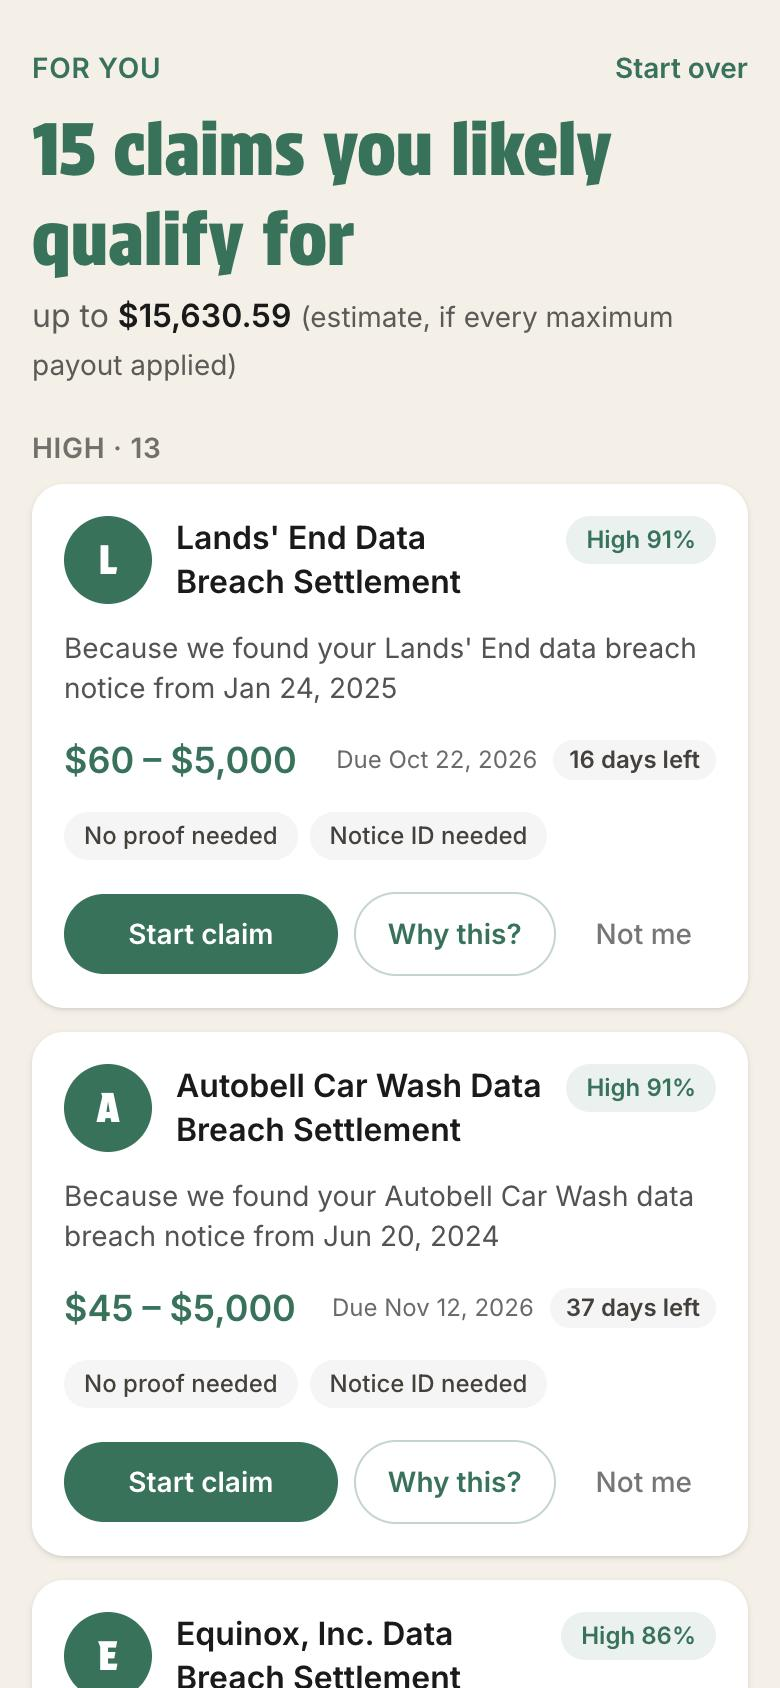
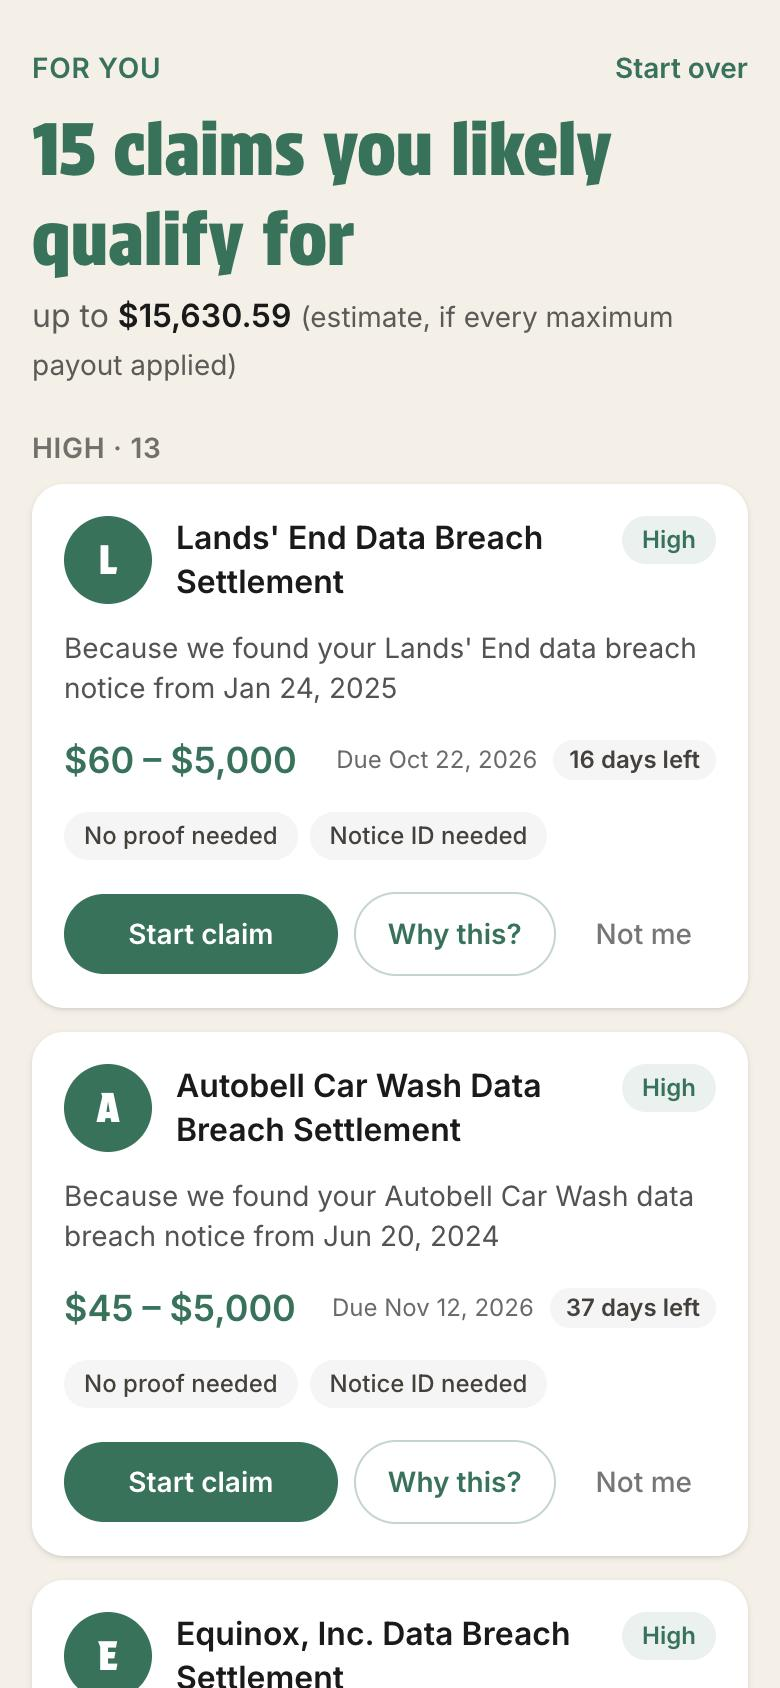
Show the band only on the confidence pill; keep the score in the API

diff --git a/components/ClaimCard.tsx b/components/ClaimCard.tsx
@@ -8,10 +8,11 @@ const BAND_PILL: Record<Band, string> = {
   possible: "bg-stone-200 text-stone-700",
 };
 
-export function ConfidencePill({ band, confidence }: { band: Band; confidence: number }) {
+// Shows the band only; the numeric confidence stays in the API for sorting and banding.
+export function ConfidencePill({ band }: { band: Band }) {
   return (
     <span className={`shrink-0 rounded-full px-2.5 py-1 text-xs font-semibold ${BAND_PILL[band]}`}>
-      {BAND_LABEL[band]} {Math.round(confidence * 100)}%
+      {BAND_LABEL[band]}
     </span>
   );
 }
@@ -48,7 +49,7 @@ export default function ClaimCard({ claim, band, needsAnswer, onWhy, onNotMe, on
       <header className="flex items-start gap-3">
         <Avatar company={claim.company} />
         <h3 className="min-w-0 flex-1 font-semibold leading-snug">{claim.name}</h3>
-        <ConfidencePill band={band} confidence={claim.confidence} />
+        <ConfidencePill band={band} />
       </header>
 
       <p className="text-sm text-foreground/75">{claim.reason}</p>

diff --git a/components/WhyDrawer.tsx b/components/WhyDrawer.tsx
@@ -101,7 +101,7 @@ export default function WhyDrawer({ claim, band, onClose }: Props) {
         </header>
 
         <div className="flex items-center gap-2">
-          <ConfidencePill band={band} confidence={claim.confidence} />
+          <ConfidencePill band={band} />
           <p className="text-sm text-foreground/70">{claim.reason}</p>
         </div>
 

diff --git a/CLAUDE.md b/CLAUDE.md
@@ -85,7 +85,7 @@ Be strict. Never guess a product, date or state not in the email. Return only JS
 - Headline font: Protest Strike (Google Fonts via next/font). Body: Inter.
 - Accent green #1C7359. Background warm beige #F6F0E6. Cards white, rounded-2xl, soft shadow.
 - Flow: Intro + consent card -> Scanning (animated counts, min 2.5 s) -> Feed (High / Likely / Possible sections) -> "Why this?" drawer -> Start claim / Not me.
-- Card: company initial avatar, settlement name, confidence pill (High green, Likely amber, Possible grey, with %), reason line, payout range, deadline + days left (red badge if deadline_soon), "Proof needed" / "Notice ID needed" tags.
+- Card: company initial avatar, settlement name, confidence pill (High green, Likely amber, Possible grey; band label only, the % stays in the API for sorting and banding), reason line, payout range, deadline + days left (red badge if deadline_soon), "Proof needed" / "Notice ID needed" tags.
 - Start claim opens `claim_url`, or `source_url` if claim_url is null.
 - Feed header: "{n} claims you likely qualify for" + "up to $X" (sum of payout_max, labelled as an estimate).
 - "Why this?" drawer: primary email with the evidence line highlighted, supporting emails, checks (company, class period, product, state, judge reason when present), eligibility summary, link to `source_url`.
